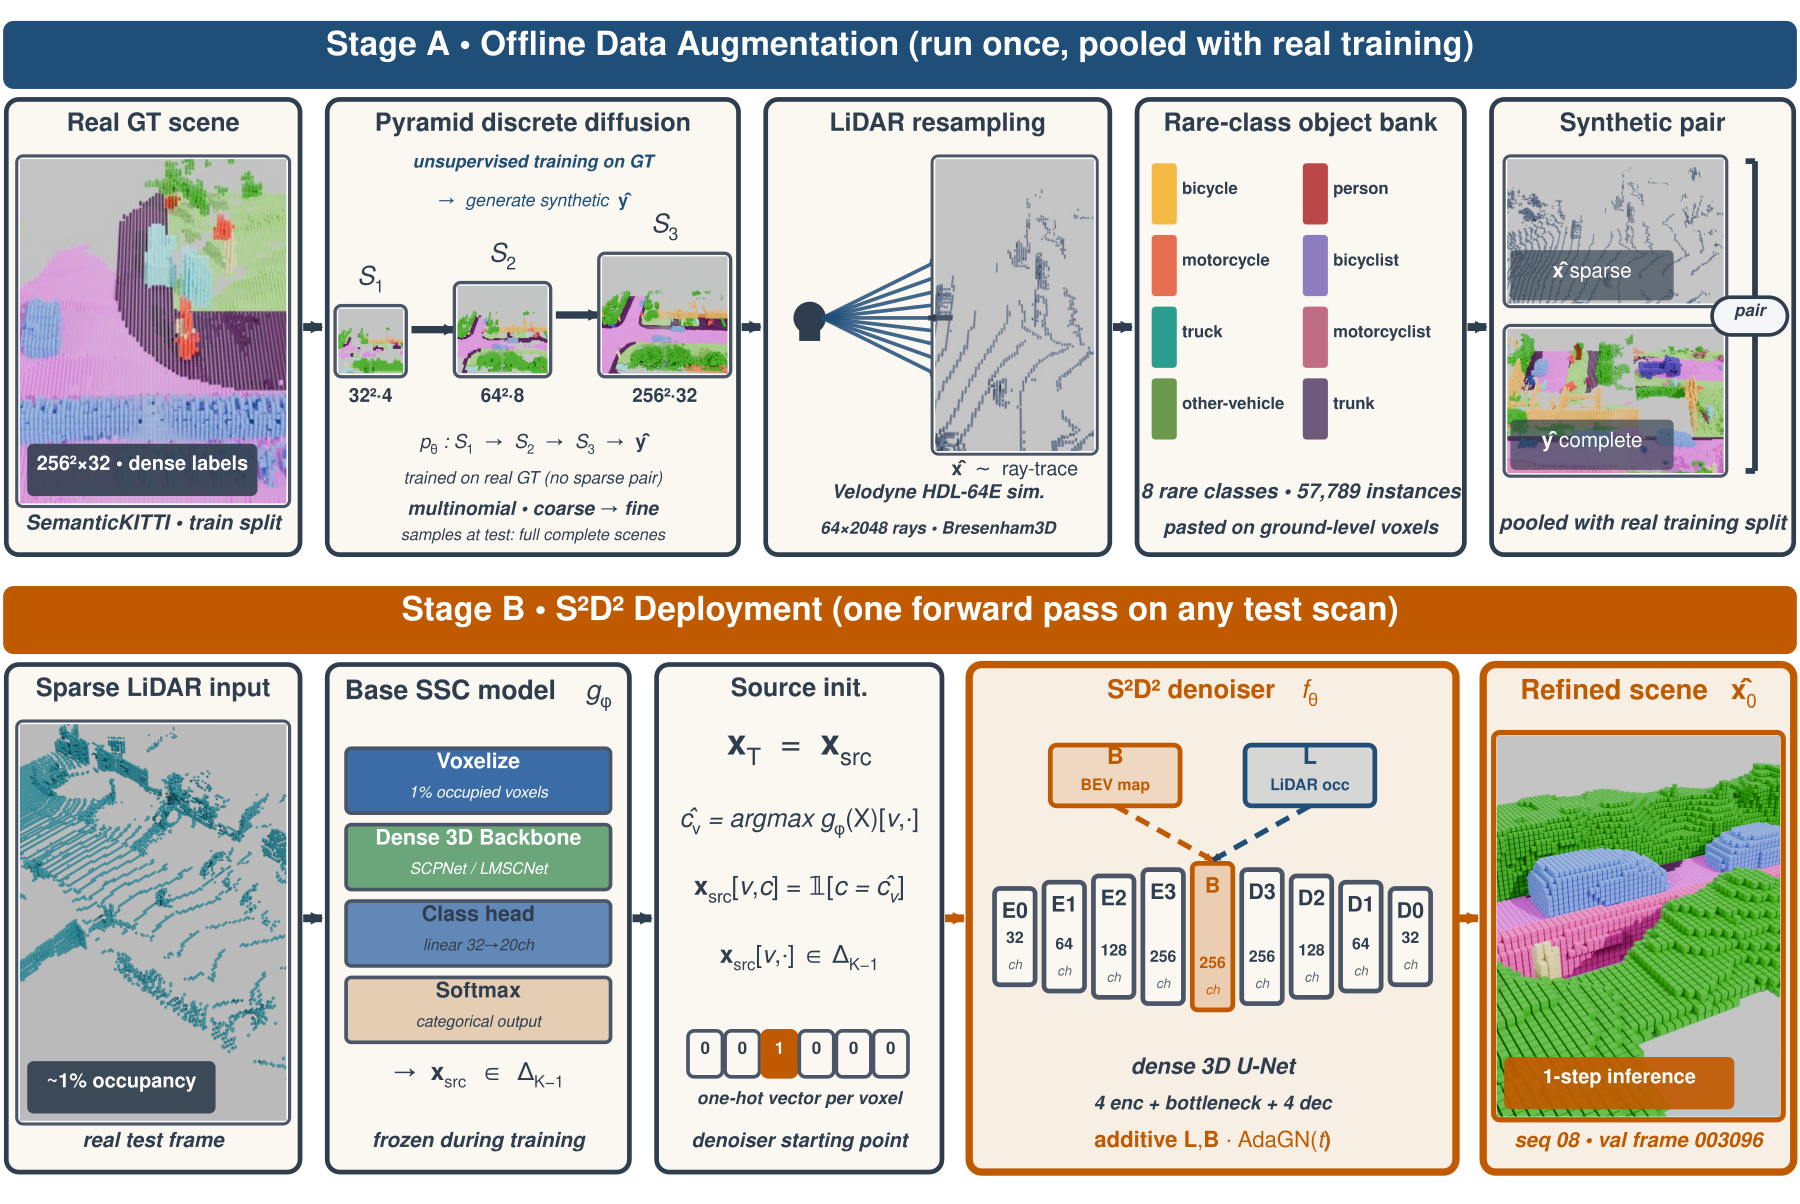
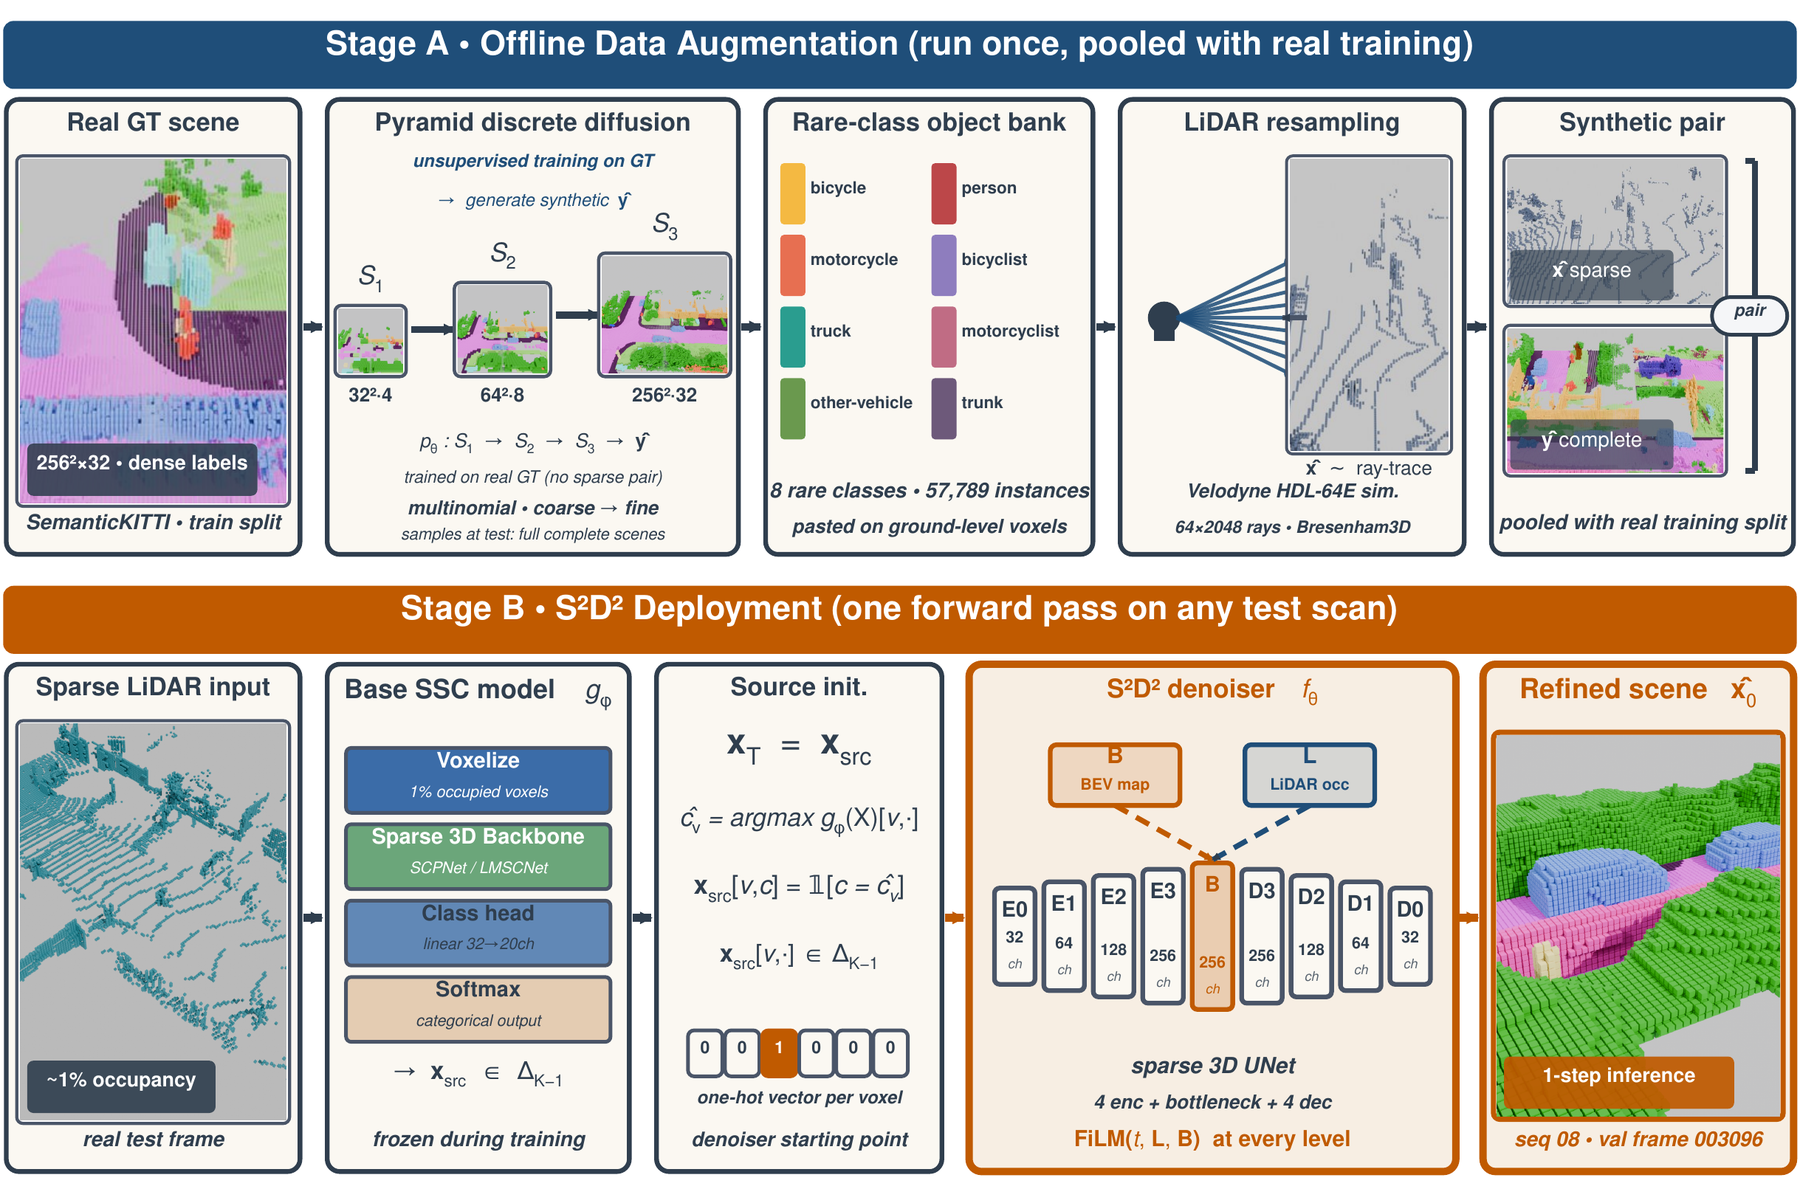
PS3 paste->resample sync: reorder pipeline text (Stage 2 Object-Bank Paste, Stage 3 Ray-Trace) + alt-texts + prose; regenerate fig2_pipeline (Stage-A object-bank before ray-trace) and fig4_da_pipeline (object-bank Stage 2 / ray-trace+output Stage 3) with all-central text vertical-centering

diff --git a/index.html b/index.html
@@ -244,11 +244,11 @@
          aria-label="Figure — scroll horizontally to view full diagram">
       <picture>
         <source type="image/webp" srcset="assets/figures/fig2_pipeline.webp" />
-        <img src="assets/figures/fig2_pipeline.png" alt="Two-stage pipeline. Stage A — Offline Data Augmentation (run once, pooled with real training): real GT scenes feed pyramid multinomial diffusion at S1=32²·4, S2=64²·8, S3=256²·32; a Velodyne HDL-64E Bresenham3D ray-tracer with 64×2048 rays converts each synthetic complete scene to a matching sparse input; a 57,789-instance / 8-rare-class object bank pastes rare-class instances on ground-level voxels. Stage B — S²D² Deployment (one forward pass on any test scan): a real sparse LiDAR scan is voxelized, passed through a frozen base SSC model (e.g. SCPNet, LMSCNet) to produce x_src, then refined by the S²D² denoiser f_θ — a dense 3D U-Net (Conv3d) with additive L/B conditioning + time-AdaGN modulation at every level — emitting x̂_0 in one Euler step." loading="lazy" width="1800" height="1204" />
+        <img src="assets/figures/fig2_pipeline.png" alt="Two-stage pipeline. Stage A — Offline Data Augmentation (run once, pooled with real training): real GT scenes feed pyramid multinomial diffusion at S1=32²·4, S2=64²·8, S3=256²·32; a 57,789-instance / 8-rare-class object bank pastes rare-class instances on ground-level voxels of each synthetic complete scene; a Velodyne HDL-64E Bresenham3D ray-tracer with 64×2048 rays then converts each enriched scene to a matching sparse input. Stage B — S²D² Deployment (one forward pass on any test scan): a real sparse LiDAR scan is voxelized, passed through a frozen base SSC model (e.g. SCPNet, LMSCNet) to produce x_src, then refined by the S²D² denoiser f_θ — a dense 3D U-Net (Conv3d) with additive L/B conditioning + time-AdaGN modulation at every level — emitting x̂_0 in one Euler step." loading="lazy" width="1800" height="1204" />
       </picture>
     </div>
     <figcaption>
-      <strong>Stage&nbsp;A &mdash; Offline data augmentation (run once).</strong> Pyramid multinomial diffusion synthesises complete scenes; an HDL-64E Bresenham3D ray-tracer (64&times;2048 rays) makes them sparse; a 57,789-instance / 8-rare-class object bank (bicycle, motorcycle, truck, other-vehicle, person, bicyclist, motorcyclist, trunk) enriches each scene. <strong>Stage&nbsp;B &mdash; S<sup>2</sup>D<sup>2</sup> deployment (one forward pass).</strong> A frozen base SSC model produces x<sub>src</sub>; a dense 3D U-Net (Conv3d) with additive L/B conditioning + time-AdaGN modulation refines it into x&#770;<sub>0</sub> in a single Euler step. No distillation. Source: paper Fig.&nbsp;2.
+      <strong>Stage&nbsp;A &mdash; Offline data augmentation (run once).</strong> Pyramid multinomial diffusion synthesises complete scenes; a 57,789-instance / 8-rare-class object bank (bicycle, motorcycle, truck, other-vehicle, person, bicyclist, motorcyclist, trunk) enriches each scene; then an HDL-64E Bresenham3D ray-tracer (64&times;2048 rays) makes them sparse. <strong>Stage&nbsp;B &mdash; S<sup>2</sup>D<sup>2</sup> deployment (one forward pass).</strong> A frozen base SSC model produces x<sub>src</sub>; a dense 3D U-Net (Conv3d) with additive L/B conditioning + time-AdaGN modulation refines it into x&#770;<sub>0</sub> in a single Euler step. No distillation. Source: paper Fig.&nbsp;2.
     </figcaption>
   </figure>
 
@@ -281,7 +281,7 @@
   <p class="section__eyebrow">Data side · co-equal contribution</p>
   <h2 class="section__title">A pyramid pipeline that turns long-tail scarcity into supervised pairs.</h2>
   <p class="section__lede">
-    SemanticKITTI puts more than 7,000&times; as many vegetation voxels in the training set as motorcyclist voxels. The model side cannot reweight its way out of that &mdash; the rare classes simply are not there to learn from. The data side runs offline, once, on top of the existing supervised set: pyramid discrete diffusion synthesises full complete scenes; a quality filter keeps the in-distribution half; an HDL-64E ray-tracer pairs each with a sparse input; a rare-class object bank fills the residual gaps. The result is an extra <strong>32,039</strong> labelled pairs that the rest of the system can train against without any change to the SSC pipeline.
+    SemanticKITTI puts more than 7,000&times; as many vegetation voxels in the training set as motorcyclist voxels. The model side cannot reweight its way out of that &mdash; the rare classes simply are not there to learn from. The data side runs offline, once, on top of the existing supervised set: pyramid discrete diffusion synthesises full complete scenes; a quality filter keeps the in-distribution half; a rare-class object bank fills the residual gaps; an HDL-64E ray-tracer then pairs each with a sparse input. The result is an extra <strong>32,039</strong> labelled pairs that the rest of the system can train against without any change to the SSC pipeline.
   </p>
 
   <figure class="figure-wide figure-wide--tight figure-wide--dense">
@@ -290,14 +290,14 @@
       <picture>
         <source type="image/webp" srcset="assets/figures/fig4_da_pipeline.webp" />
         <img src="assets/figures/fig4_da_pipeline.png"
-             alt="Three-stage offline data-augmentation pipeline. Stage 1 — Pyramid Discrete Diffusion: three cascaded multinomial diffusions at 32²×4 → 64²×8 → 256²×32, each conditioning on the upsampled output of the previous scale; the S₃ stage tiles into overlapping 136²×32 patches merged by majority vote, then a Jensen–Shannon divergence filter keeps the top half by class-distribution similarity to real scenes. Stage 2 — LiDAR Ray-Trace Resampling: a simulated Velodyne HDL-64E (64 beams × 2,048 azimuth bins = 131,072 rays per sweep, up to 2 returns per beam, σ_r = 3 cm range noise) traverses each synthetic complete scene via Bresenham-3D to produce the matching sparse input; the highlighted beam shows the first and second returns. Stage 3 — Object Bank Paste: 57,789 rare-class instances across 8 safety-critical classes (bicycle, motorcycle, truck, other-vehicle, person, bicyclist, motorcyclist, trunk) are pasted onto ground-level voxels of every synthetic scene. The final synthetic pool is 19,130 real + 32,039 synthetic = 51,169 training pairs, a 2.67× pool expansion."
+             alt="Three-stage offline data-augmentation pipeline. Stage 1 — Pyramid Discrete Diffusion: three cascaded multinomial diffusions at 32²×4 → 64²×8 → 256²×32, each conditioning on the upsampled output of the previous scale; the S₃ stage tiles into overlapping 136²×32 patches merged by majority vote, then a Jensen–Shannon divergence filter keeps the top half by class-distribution similarity to real scenes. Stage 2 — Object Bank Paste: 57,789 rare-class instances across 8 safety-critical classes (bicycle, motorcycle, truck, other-vehicle, person, bicyclist, motorcyclist, trunk) are pasted onto ground-level voxels of every synthetic scene. Stage 3 — LiDAR Ray-Trace Resampling: a simulated Velodyne HDL-64E (64 beams × 2,048 azimuth bins = 131,072 rays per sweep, up to 2 returns per beam, σ_r = 3 cm range noise) traverses each enriched synthetic complete scene via Bresenham-3D to produce the matching sparse input; the highlighted beam shows the first and second returns. The final synthetic pool is 19,130 real + 32,039 synthetic = 51,169 training pairs, a 2.67× pool expansion."
              loading="lazy" width="2000" height="2791" />
       </picture>
     </div>
     <figcaption>
       <strong>Stage&nbsp;1 &mdash; Pyramid Discrete Diffusion.</strong> Three cascaded multinomial diffusions at 32<sup>2</sup>&times;4 &rarr; 64<sup>2</sup>&times;8 &rarr; 256<sup>2</sup>&times;32, each conditioned on the upsampled prior scale; the 256<sup>2</sup>&times;32 stage tiles into 136<sup>2</sup>&times;32 patches merged by majority vote, then a Jensen&ndash;Shannon filter keeps the top half by class-distribution similarity to real scenes.
-      <strong>Stage&nbsp;2 &mdash; LiDAR Ray-Trace Resampling.</strong> A simulated Velodyne HDL-64E (64&thinsp;&times;&thinsp;2,048 = <strong>131,072</strong> rays per sweep, up to 2 returns per beam, &sigma;<sub><em>r</em></sub>=3&thinsp;cm) traverses each synthetic scene via Bresenham-3D to produce a matching sparse input.
-      <strong>Stage&nbsp;3 &mdash; Object Bank Paste.</strong> <strong>57,789</strong> rare-class instances across 8 safety-critical classes pasted onto ground-level voxels.
+      <strong>Stage&nbsp;2 &mdash; Object Bank Paste.</strong> <strong>57,789</strong> rare-class instances across 8 safety-critical classes pasted onto ground-level voxels.
+      <strong>Stage&nbsp;3 &mdash; LiDAR Ray-Trace Resampling.</strong> A simulated Velodyne HDL-64E (64&thinsp;&times;&thinsp;2,048 = <strong>131,072</strong> rays per sweep, up to 2 returns per beam, &sigma;<sub><em>r</em></sub>=3&thinsp;cm) traverses each enriched synthetic scene via Bresenham-3D to produce a matching sparse input.
       The final pool is <strong>19,130 + 32,039 = 51,169</strong> pairs (<strong>2.67&times;</strong>). Source: paper Fig.&nbsp;4.
     </figcaption>
   </figure>
@@ -314,22 +314,22 @@
     </div>
 
     <div class="method-card">
-      <h3 class="method-card__title"><span class="method-card__num">02</span> Match it to a real sensor</h3>
-      <p>
-        A simulated <strong>Velodyne HDL-64E</strong> ray-tracer fires 64&thinsp;&times;&thinsp;2,048 = <strong>131,072</strong> rays per sweep across every synthetic scene, with up to two returns per beam and &sigma;<sub><em>r</em></sub>&thinsp;=&thinsp;3&thinsp;cm range noise.
-      </p>
-      <p>
-        Bresenham-3D voxel traversal produces the matching <em>sparse</em> input <span style="font-family:var(--ff-mono); color:var(--c-ink);">X&#770;</span> at the same density real LiDAR would &mdash; so the synthetic pairs train and fail like real ones.
-      </p>
-    </div>
-
-    <div class="method-card">
-      <h3 class="method-card__title"><span class="method-card__num">03</span> Fill the rare tail</h3>
+      <h3 class="method-card__title"><span class="method-card__num">02</span> Fill the rare tail</h3>
       <p>
         A pre-built bank of <strong>57,789</strong> instances across 8 safety-critical rare classes (bicycle, motorcycle, truck, other-vehicle, person, bicyclist, motorcyclist, trunk) pastes onto ground-level voxels of every synthetic scene.
       </p>
       <p>
         Placement passes three legality checks: in-bounds within the 256<sup>2</sup>&times;32 grid, no-collision with existing non-empty voxels of a different class, and grounded on road / sidewalk / parking / terrain.
+      </p>
+    </div>
+
+    <div class="method-card">
+      <h3 class="method-card__title"><span class="method-card__num">03</span> Match it to a real sensor</h3>
+      <p>
+        A simulated <strong>Velodyne HDL-64E</strong> ray-tracer fires 64&thinsp;&times;&thinsp;2,048 = <strong>131,072</strong> rays per sweep across every enriched synthetic scene, with up to two returns per beam and &sigma;<sub><em>r</em></sub>&thinsp;=&thinsp;3&thinsp;cm range noise.
+      </p>
+      <p>
+        Bresenham-3D voxel traversal produces the matching <em>sparse</em> input <span style="font-family:var(--ff-mono); color:var(--c-ink);">X&#770;</span> at the same density real LiDAR would &mdash; so the synthetic pairs train and fail like real ones.
       </p>
     </div>
   </div>
